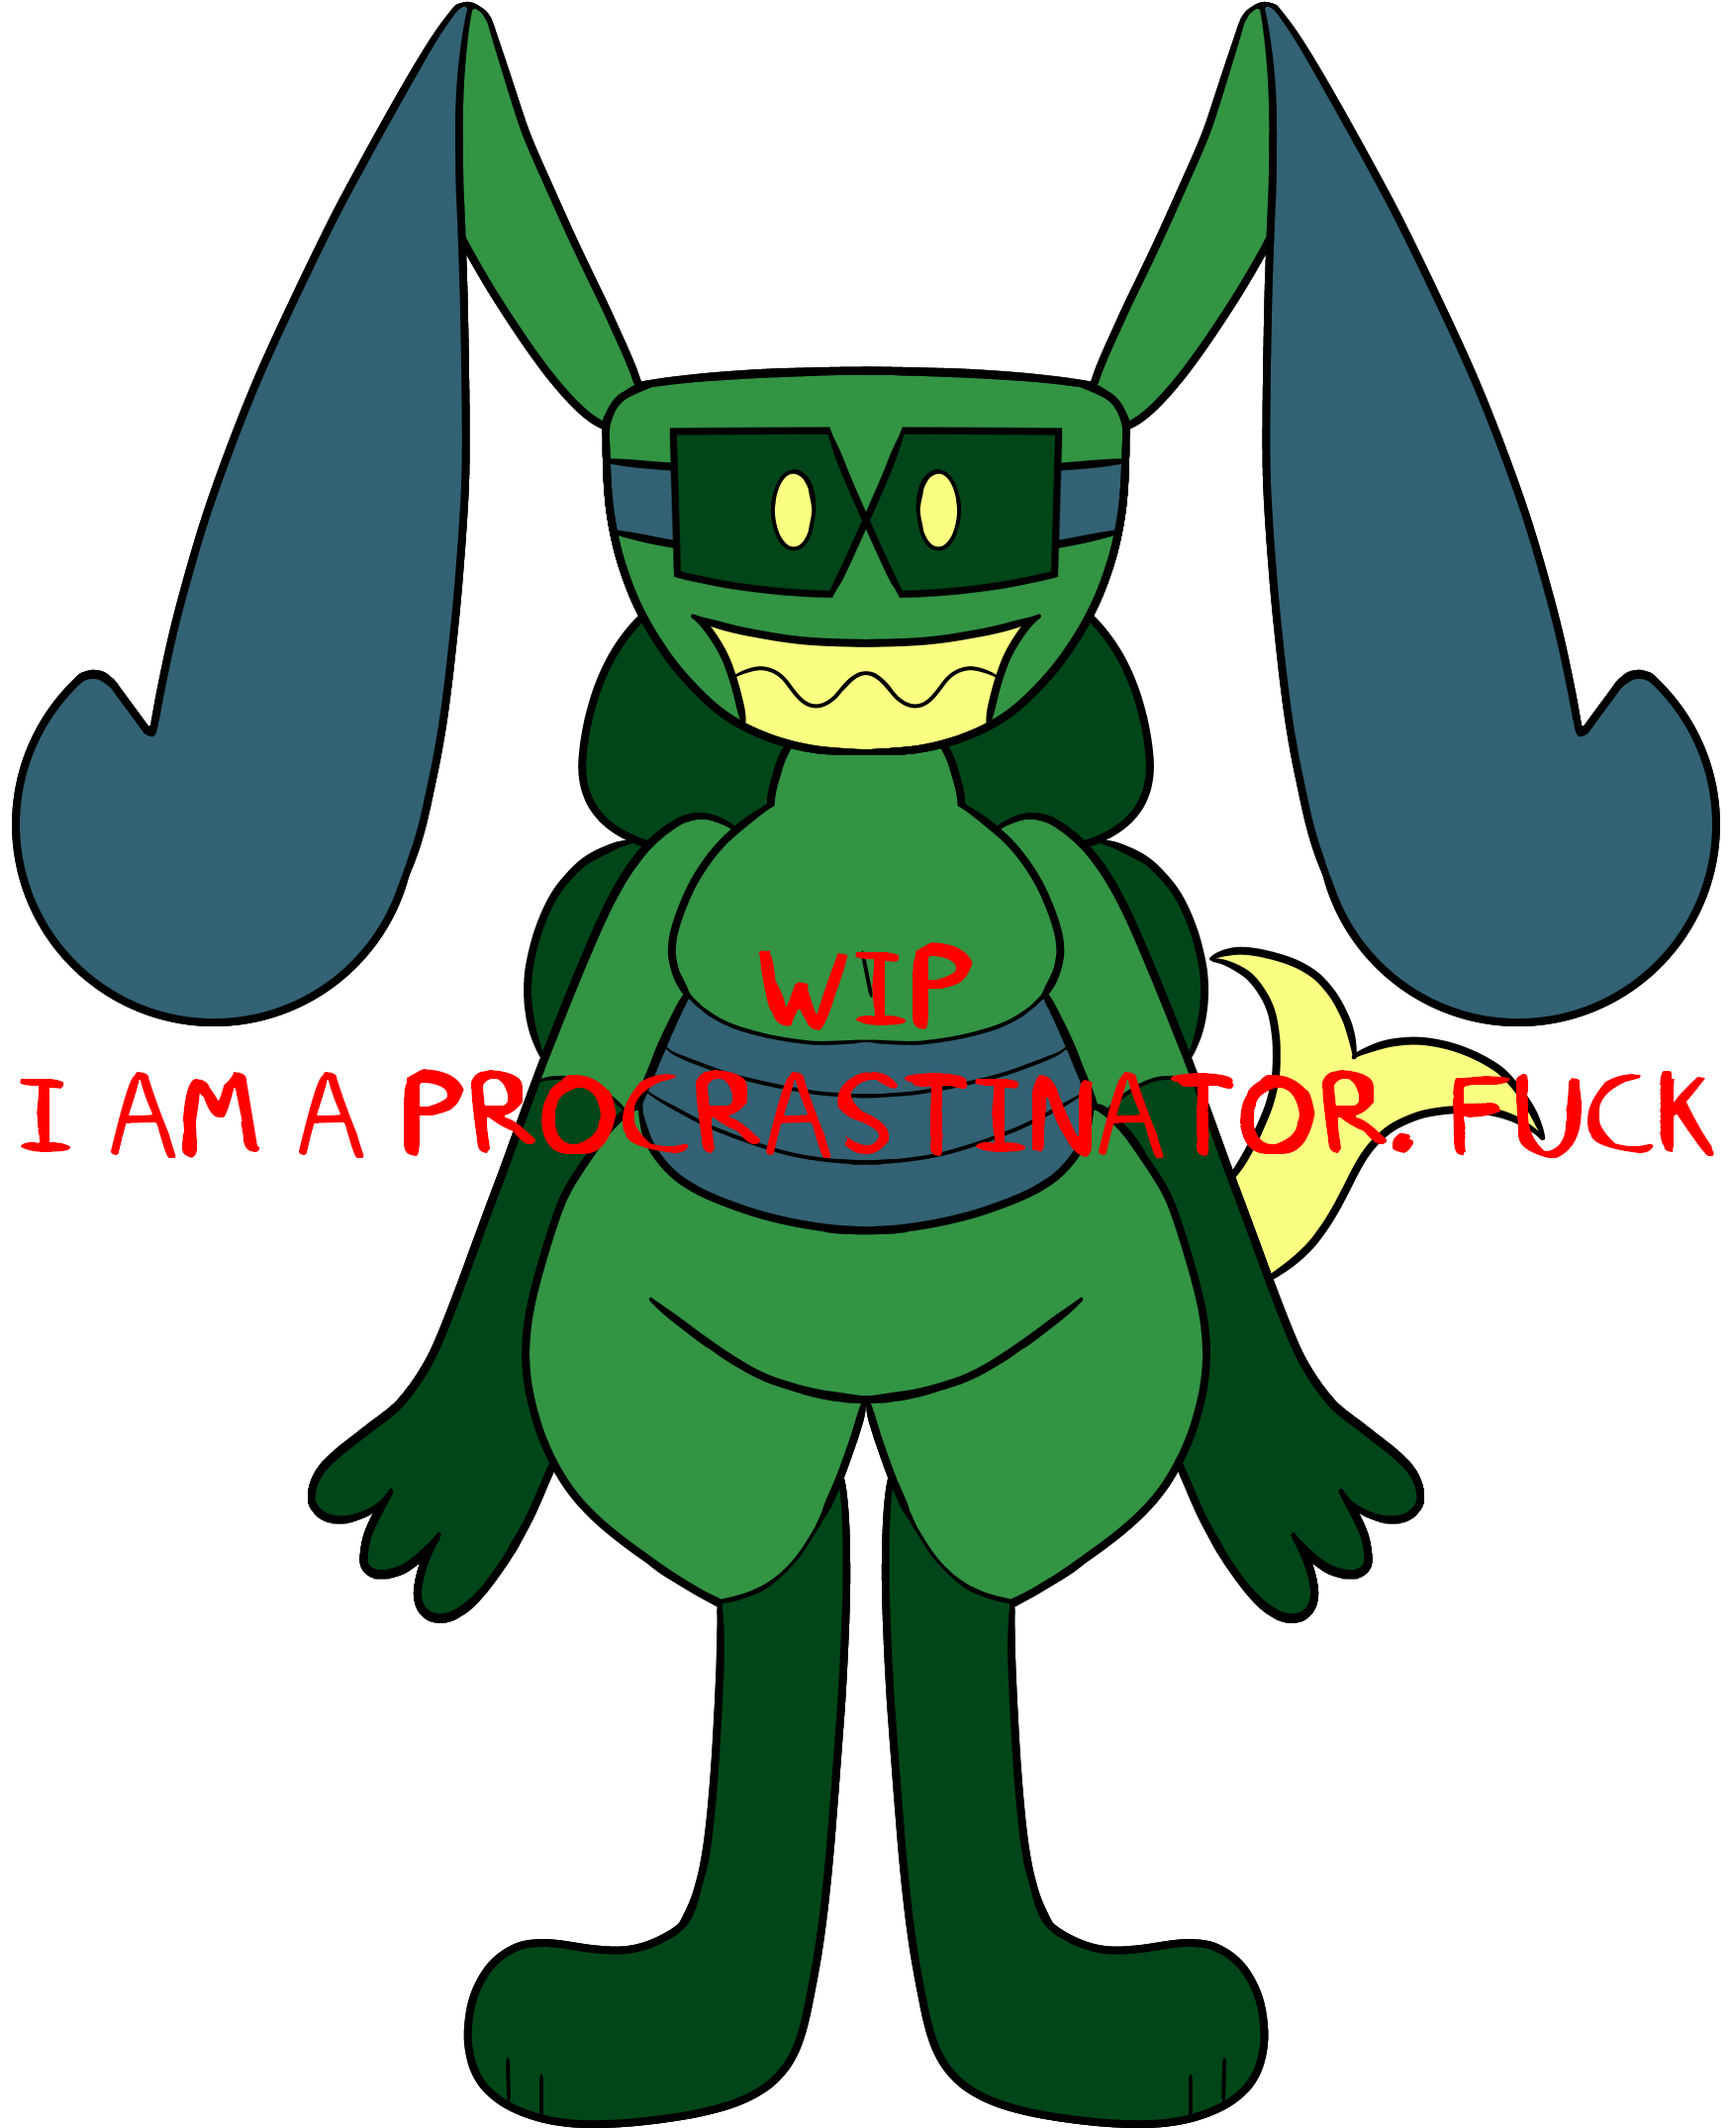
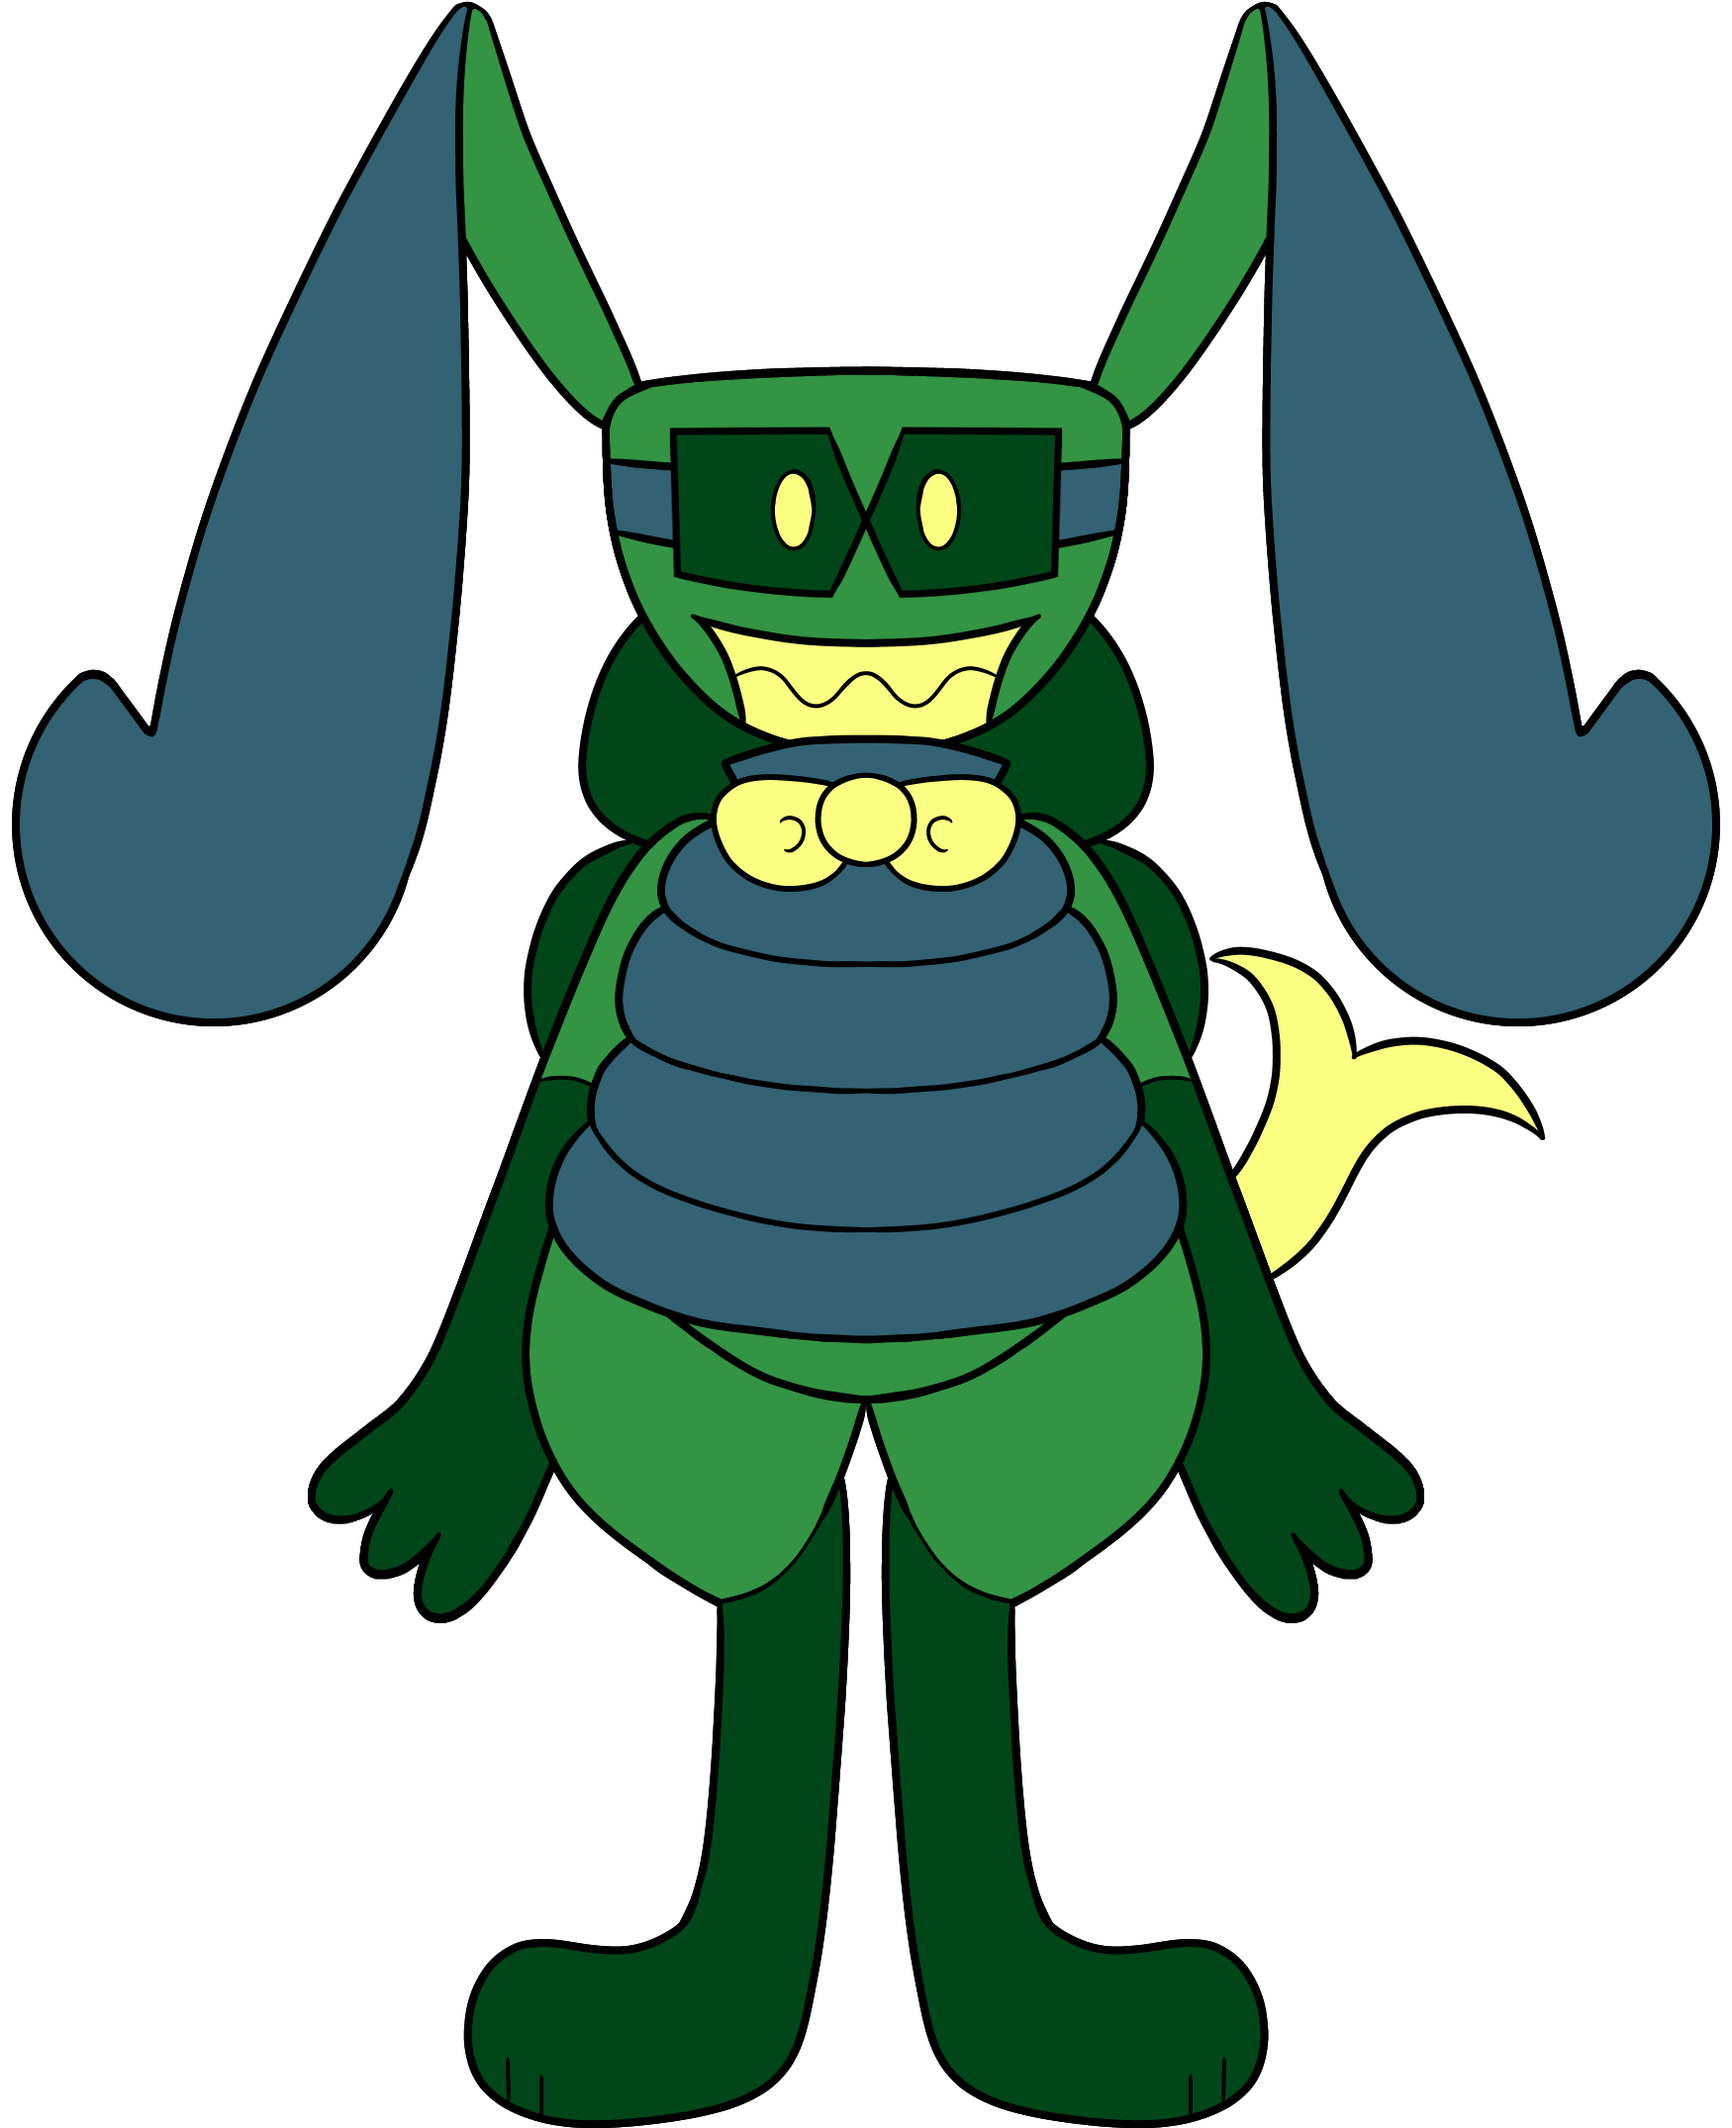
Added default outfit, updated theme

Changed region(s): [[0.0617, 0.3428, 0.8023, 0.6544], [0.8331, 0.4986, 0.9874, 0.5609], [0.0, 0.4986, 0.0309, 0.5609]]

diff --git a/springtail/reftek-base.css b/springtail/reftek-base.css
@@ -3,7 +3,7 @@
     --margins: 10px;
     --bg: #05007E;
     --primary: #FAFF81;
-    --border: 1px;
+    --border: 2px;
     --radius: 0px;
     --font: "mono"; /* pick from sans, serif, or mono */
 
@@ -15,7 +15,7 @@
     --shadow-color: rgba(0,0,0,0.2);
 
     /* Section headers */
-    --header-bg: #326273;
+    --header-bg: #82406F;
     --header-text: #FAFF81;
 
     /* Info */
@@ -58,7 +58,7 @@
     }
 
     body {
-        background-color: var(--bg);
+        background: linear-gradient(0deg, #A7CCDA 0%, #B780A8 75%);
         color: var(--primary);
         box-sizing: border-box;
         margin: 0;
@@ -110,7 +110,7 @@
         margin: 0;
         padding: var(--margins);
         font-family: "mono";
-        background-image: url("images/logo.svg");
+        background: linear-gradient(0deg, #A7CCDA 0%, #B780A8 75%);
         background-position: center;
         background-repeat: no-repeat;
     }

diff --git a/springtail/settings.js b/springtail/settings.js
@@ -12,7 +12,7 @@ const angles = [
 // Enable and Disable
 const angleToggles = [
     "",
-	"Goggles"
+	"goggles"
 ]
 
 // ADD OUTFITS HERE. 
